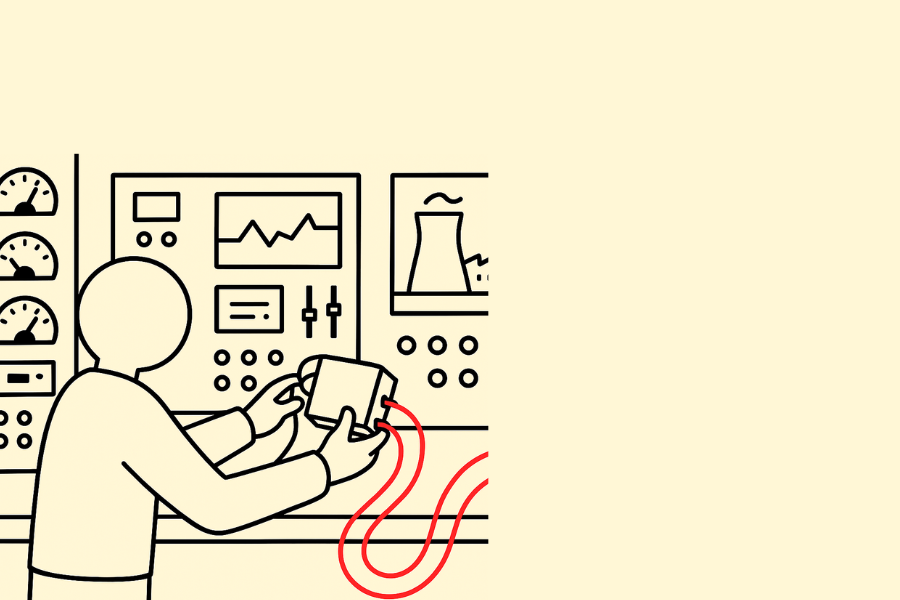
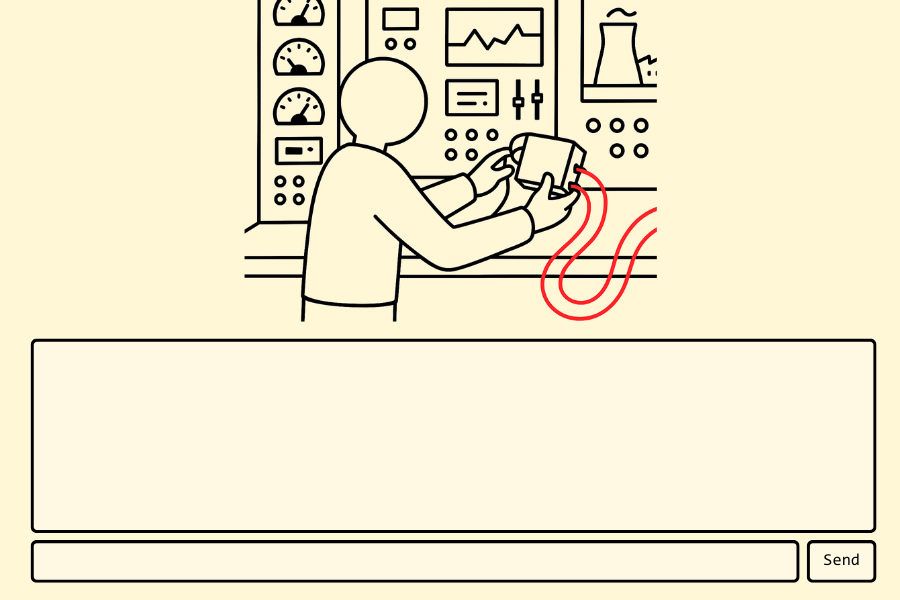
Added the elements and fixed the UI for human witness, added the text area and field.

Changed region(s): [[0.0, 0.0, 0.9956, 1.0], [0.4356, 0.21, 0.4667, 0.24], [0.1244, 0.78, 0.1556, 0.81]]

diff --git a/src/main/resources/css/memory.css b/src/main/resources/css/memory.css
@@ -1,8 +1,20 @@
+.text-field {
+  font-family: "Consolas";
+  -fx-font-family: "Consolas";
+  font-size: 12px;
+  -fx-font-size: 12px;
+  -fx-text-fill: black;
+  background-color: transparent;
+  -fx-background-color: transparent;
+  cursor: default;
+  -fx-cursor: default;
+}
+
 .text-area {
   font-family: "Consolas";
   -fx-font-family: "Consolas";
-  font-size: 24px;
-  -fx-font-size: 24px;
+  font-size: 12px;
+  -fx-font-size: 12px;
   -fx-text-fill: black;
   background-color: transparent;
   -fx-background-color: transparent;
@@ -13,8 +25,8 @@
 #lblLocation {
   font-family: "Consolas";
   -fx-font-family: "Consolas";
-  font-size: 12px;
-  -fx-font-size: 12px;
+  font-size: 10px;
+  -fx-font-size: 10px;
   -fx-text-fill: black;
   align-items: flex-start;
 }
